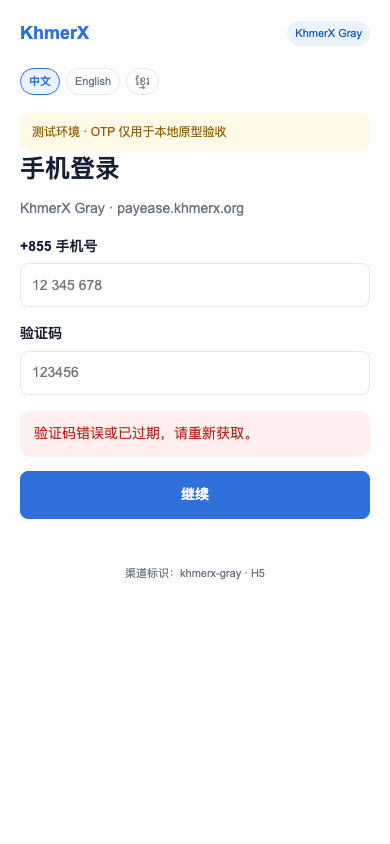
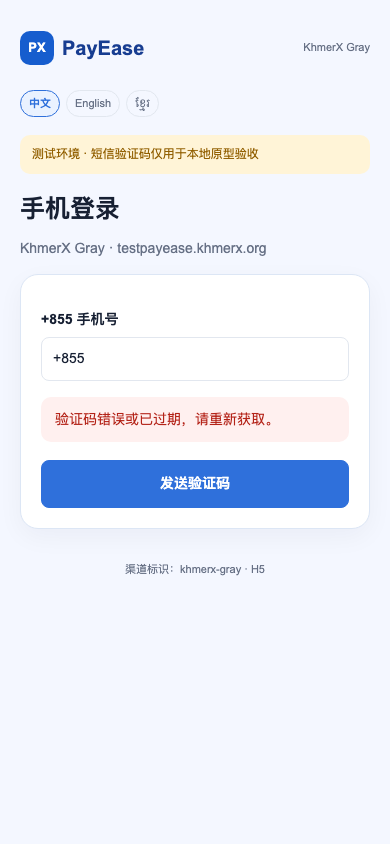
docs: rework channel configuration UI prototype

diff --git a/docs/design/channel-config/app.js b/docs/design/channel-config/app.js
@@ -1,29 +1,66 @@
-const q=new URLSearchParams(location.search),screen=q.get('screen')||'list',locale=q.get('locale')||'zh';
-const lang={zh:{h5:'手机登录',code:'验证码',continue:'继续',company:'KhmerX Gray',test:'测试环境',mismatch:'当前入口暂不可用',disabled:'该渠道已停用',maintenance:'系统维护中，请稍后再试',upgrade:'需要升级',offline:'接口暂不可用',success:'登录成功'},en:{h5:'Phone sign in',code:'Verification code',continue:'Continue',company:'KhmerX Gray',test:'Test environment',mismatch:'This entry is unavailable',disabled:'This channel is disabled',maintenance:'System maintenance. Please try again later.',upgrade:'Update required',offline:'Service unavailable',success:'Signed in'},km:{h5:'ចូលដោយទូរស័ព្ទ',code:'លេខកូដផ្ទៀងផ្ទាត់',continue:'បន្ត',company:'KhmerX Gray',test:'បរិស្ថានសាកល្បង',mismatch:'ច្រកចូលនេះមិនអាចប្រើបាន',disabled:'ឆានែលនេះត្រូវបានបិទ',maintenance:'ប្រព័ន្ធកំពុងថែទាំ សូមព្យាយាមម្ដងទៀត',upgrade:'ត្រូវការធ្វើបច្ចុប្បន្នភាព',offline:'សេវាមិនអាចប្រើបាន',success:'បានចូល'} }[locale]||{};
-const clientText={zh:{otp:'OTP 仅用于本地原型验收',phone:'手机号',wrong:'验证码错误或已过期，请重新获取。',rate:'发送次数过多，请稍后再试。',mismatchHint:'请从所属公司的官方机器人重新打开应用。',back:'返回机器人',loading:'正在自动登录',verify:'正在验证 Telegram 会话与公司渠道…',enter:'进入首页',updateCopy:'请安装最新版本以继续使用',update:'前往更新',later:'稍后提醒',retry:'重试',network:'请检查网络后重试。我们不会丢失你的登录状态。',channel:'渠道标识'},en:{otp:'OTP is for local prototype acceptance only',phone:'Phone number',wrong:'The code is wrong or expired. Request a new code.',rate:'Too many requests. Try again later.',mismatchHint:'Open the app again from the company\'s official bot.',back:'Return to bot',loading:'Signing you in',verify:'Verifying the Telegram session and company channel…',enter:'Open workspace',updateCopy:'Install the latest version to continue with',update:'Update now',later:'Remind me later',retry:'Retry',network:'Check your network and try again. Your sign-in state is safe.',channel:'Channel'},km:{otp:'OTP សម្រាប់ការទទួលយកគំរូក្នុង local ប៉ុណ្ណោះ',phone:'លេខទូរស័ព្ទ',wrong:'លេខកូដខុស ឬផុតកំណត់។ សូមស្នើលេខកូដថ្មី។',rate:'សំណើច្រើនពេក។ សូមព្យាយាមម្ដងទៀតពេលក្រោយ។',mismatchHint:'សូមបើកកម្មវិធីម្ដងទៀតពី bot ផ្លូវការរបស់ក្រុមហ៊ុន។',back:'ត្រឡប់ទៅ bot',loading:'កំពុងចូលប្រើ',verify:'កំពុងផ្ទៀងផ្ទាត់ session Telegram និងឆានែលក្រុមហ៊ុន…',enter:'ចូលទៅកាន់ workspace',updateCopy:'សូមដំឡើងកំណែថ្មីបំផុត ដើម្បីបន្តជាមួយ',update:'ធ្វើបច្ចុប្បន្នភាព',later:'រំលឹកខ្ញុំពេលក្រោយ',retry:'ព្យាយាមម្ដងទៀត',network:'សូមពិនិត្យបណ្តាញ ហើយព្យាយាមម្ដងទៀត។ ស្ថានភាពចូលរបស់អ្នកនៅសុវត្ថិភាព។',channel:'ឆានែល'}}[locale]||{};
-setTimeout(()=>{if(!screen.startsWith('client-'))return;const map={
-  'OTP 仅用于本地原型验收':clientText.otp,'手机号':clientText.phone,'验证码错误或已过期，请重新获取。':clientText.wrong,
-  '发送次数过多，请稍后再试。':clientText.rate,'请从所属公司的官方机器人重新打开应用。':clientText.mismatchHint,'返回机器人':clientText.back,
-  '正在自动登录':clientText.loading,'正在验证 Telegram 会话与公司渠道…':clientText.verify,'进入首页':clientText.enter,
-  '请安装最新版本以继续使用':clientText.updateCopy,'前往更新':clientText.update,'稍后提醒':clientText.later,
-  '请检查网络后重试。我们不会丢失你的登录状态。':clientText.network,'重试':clientText.retry,'渠道标识':clientText.channel
-};document.querySelectorAll('.client *').forEach(el=>{el.childNodes.forEach(n=>{if(n.nodeType!==3)return;for(const [from,to] of Object.entries(map))n.nodeValue=n.nodeValue.replaceAll(from,to)})})},0);
-const esc=s=>String(s).replace(/[&<>"']/g,c=>({'&':'&amp;','<':'&lt;','>':'&gt;','"':'&quot;',"'":'&#39;'}[c]));
-const link=(label,target,active='')=>`<a class="${active===target?'active':''}" href="?screen=${target}">${label}</a>`;
-function top(){return `<header class="top"><div class="brand">KhmerX <small>CHANNEL CONFIGURATION</small></div><div class="top-actions"><span class="env">GRAY · READ-ONLY PREVIEW</span><span class="avatar">AM</span></div></header>`}
-function rail(){return `<aside class="rail"><h2>KhmerX Admin</h2><nav>${link('概览','list',screen)}${link('渠道配置','list',screen)}${link('自检面板','selfcheck',screen)}${link('审计记录','audit',screen)}${link('角色权限','roles',screen)}</nav><span>预览页面</span><nav>${link('新增渠道','add',screen)}${link('双人复核','review',screen)}${link('无权限状态','forbidden',screen)}</nav></aside>`}
-function admin(content){return `<div class="shell">${top()}<div class="layout">${rail()}<main class="main">${content}</main></div></div>`}
-const heading=(title,desc,actions='')=>`<div class="heading"><div><p class="eyebrow">CHANNEL CONFIGURATION</p><h1>${title}</h1><p>${desc}</p></div><div class="button-row">${actions}</div></div>`;
-const badge=(text,type='blue')=>`<span class="pill ${type}">${text}</span>`;
-function list(){return admin(heading('渠道配置','按公司查看 Telegram Mini App、H5 和 App 的绑定与运行状态。','<button class="button primary">+ 新增渠道</button>')+`<div class="notice">运行时只读项：环境、Demo OTP、扫描器地址由部署配置控制；Token 仅显示 configured 与末四位。</div><div class="kpis"><div class="kpi">公司<strong>3</strong></div><div class="kpi">启用渠道<strong>7</strong></div><div class="kpi">待复核<strong>2</strong></div><div class="kpi">自检异常<strong class="red">1</strong></div></div><section class="panel"><div class="panel-title"><h2>公司渠道</h2><span class="muted">最后刷新：2026-11-06 09:12</span></div><div class="table-wrap"><table class="table"><thead><tr><th>公司 / 渠道</th><th>类型</th><th>状态</th><th>认证方式</th><th>主机或机器人</th><th>Token</th><th>最近修改</th><th></th></tr></thead><tbody>${[['KhmerX Gray','Telegram Mini App','@gray_demo_bot','已启用','Telegram initData','已配置 ····7A2F','AM · 11-06 08:42'],['KhmerX Gray','H5','testpayease.khmerx.org','已启用','手机验证码','未配置','AM · 11-05 17:31'],['KhmerX Build','App','api.build.example.test','待自检','手机号 + 密码','已配置 ····31C0','WL · 11-05 15:08'],['KhmerX Demo','H5','demo.example.test','已停用','手机号验证码','已配置 ····91EE','AM · 11-04 19:22']].map((r,i)=>`<tr><td><strong>${r[0]}</strong><span class="muted">${r[1]}</span></td><td>${r[1]}</td><td>${badge(r[3],r[3]==='已启用'?'ok':r[3]==='已停用'?'bad':'warn')}</td><td>${r[4]}</td><td><code>${r[2]}</code></td><td>${r[5]}</td><td>${r[6]}</td><td><button class="button">查看</button></td></tr>`).join('')}</tbody></table></div></section>`)}
-function detail(type='telegram'){const data={telegram:['Telegram Mini App','@gray_demo_bot','bot_telegram_id / bot_username / mini_app_url','checker · finance_checker 可读；admin 可改'],h5:['H5','testpayease.khmerx.org','hosts / allowed_origins / auth_mode / default_language','admin 可读写；环境字段只读'],app:['App','api.build.example.test','api_base_url / cookie_hosts / package_id / min_supported_version','admin 可读写；客户端仅消费']}[type];return admin(heading(`${data[0]} · 详情和编辑`,'虚构数据预览；保存动作需要 MFA，停用和认证方式变更需要双人复核。','<button class="button">返回列表</button><button class="button primary">保存草稿</button>')+`<div class="notice">Token 安全边界：只显示“已配置 ····7A2F”，替换 Token 会进入 MFA 二次验证，原值不会进入页面或日志。</div><section class="panel"><div class="section"><h3>A · 归属与状态</h3><div class="grid"><div class="field"><label>公司</label><input value="KhmerX Gray" disabled></div><div class="field"><label>渠道状态</label><select><option>已启用</option><option>已停用</option></select></div><div class="field"><label>渠道类型</label><input value="${data[0]}" disabled></div><div class="field"><label>source_channel</label><input value="${type==='telegram'?'TG':type.toUpperCase()}" disabled></div></div></div><div class="section"><h3>B · 连接与认证</h3><div class="grid"><div class="field"><label>${type==='telegram'?'bot_username':'api_base_url / hosts'}</label><input value="${data[1]}"></div><div class="field"><label>auth_mode</label><select><option>demo（仅 local/gray）</option><option>telegram</option><option>password</option></select></div><div class="field"><label>Token 状态</label><input value="已配置 ····7A2F" disabled></div><div class="field"><label>安全操作</label><button class="button">替换 Token · 需要 MFA</button></div></div></div><div class="section"><h3>C · 语言与注册</h3><div class="grid"><div class="field"><label>languages</label><input value="zh, en, km"></div><div class="field"><label>default_language</label><select><option>zh</option><option>en</option><option>km</option></select></div><div class="field"><label>phone_verification</label><input value="true · H5/App 强制" disabled></div><div class="field"><label>password_setup</label><input value="false"></div></div></div><div class="section"><h3>D · 运行时边界</h3><div class="grid"><div class="field"><label>PAYEASE_ENV</label><input value="gray" disabled></div><div class="field"><label>Demo OTP</label><input value="仅 local/gray，由部署配置控制" disabled></div><div class="field"><label>notifications_enabled</label><input value="true"></div><div class="field"><label>字段映射</label><input value="${data[2]}" disabled></div></div></div><p class="fine">权限说明：${data[3]}。所有改动写入 team_audit，旧值/新值脱敏对比。</p></section>`)}
-function add(){return admin(heading('新增渠道','逐步校验归属、绑定冲突和运行时边界。','<button class="button">取消</button>')+`<section class="panel"><div class="stepper"><div class="step done">1 · 选择类型</div><div class="step current">2 · 填写参数</div><div class="step">3 · 校验</div><div class="step">4 · 保存</div></div><div class="grid"><div class="field"><label>渠道类型</label><select><option>H5</option><option>Telegram Mini App</option><option>App</option></select></div><div class="field"><label>绑定公司</label><select><option>KhmerX Gray</option><option>KhmerX Build</option></select></div><div class="field"><label>主机 / 机器人标识</label><input value="testpayease.khmerx.org"></div><div class="field"><label>认证方式</label><select><option>phone_otp</option><option>telegram_initdata</option></select></div></div><div class="error" style="margin-top:18px">冲突：该主机或机器人已属于其他公司。请更换绑定，或进入迁移审批流程。</div><div class="button-row" style="margin-top:18px"><button class="button">上一步</button><button class="button primary">重新校验</button></div></section>`)}
-function review(){return admin(heading('双人复核','停用渠道或修改认证方式必须由另一位授权员工复核。','<button class="button">只看待复核</button>')+`<section class="panel"><div class="tabs"><span class="pill warn">待复核 2</span><span class="pill">已通过 8</span><span class="pill">已驳回 1</span></div><div class="section"><div class="stepper"><div class="step done">发起</div><div class="step current">待复核</div><div class="step">通过 / 驳回</div><div class="step">写入审计</div></div><h3>CR-20261106-004 · 停用 KhmerX Demo H5</h3><p class="muted">发起人：AM（admin） · 2026-11-06 08:51 · 原因：迁移到新主机</p><div class="compare"><div><strong>变更前</strong>enabled = true<br>auth_mode = phone_otp<br>host = demo.example.test</div><div><strong>变更后</strong>enabled = false<br>auth_mode = phone_otp<br>host = demo.example.test</div></div><div class="button-row" style="margin-top:18px"><button class="button danger">驳回并填写原因</button><button class="button primary">通过 · 需要 MFA</button></div></div></section>`)}
-function selfcheck(){return admin(heading('配置自检面板','对应 E4 检查项；只读展示，不代替部署启动门禁。','<button class="button">重新运行</button>')+`<section class="panel"><div class="row" style="justify-content:space-between"><h2>E4 · Gray profile</h2>${badge('1 项失败','bad')}</div>${[['公司绑定唯一','公司 slug 与渠道映射一致','ok'],['H5 host allow-list','testpayease.khmerx.org 已登记','ok'],['Telegram bot 唯一','@gray_demo_bot 未与其他公司重复','ok'],['App api host','api.build.example.test 未配置到 Gray','bad'],['Demo OTP 边界','仅 local/gray 生效，production 拒绝','ok'],['Token 脱敏','API 只返回 configured 与末四位','ok'],['语言配置','zh / en / km 有效','ok']].map(x=>`<div class="event"><span class="dot" style="background:${x[2]==='ok'?'var(--status-success)':'var(--status-danger)'}"></span><strong>${x[0]}</strong><span>${x[1]} ${badge(x[2]==='ok'?'通过':'失败',x[2]==='ok'?'ok':'bad')}</span></div>`).join('')}</section>`)}
-function audit(){return admin(heading('审计记录','记录渠道字段变更的前后对比、操作者、复核状态和请求编号。','<button class="button">导出筛选结果</button>')+`<section class="panel"><div class="grid"><div class="field"><label>公司</label><select><option>全部公司</option><option>KhmerX Gray</option></select></div><div class="field"><label>动作</label><select><option>全部动作</option><option>channel_update</option><option>channel_review</option></select></div></div><div class="timeline"><div class="event"><span class="dot"></span><strong>channel_review</strong><span>AM 通过停用复核 · CR-20261106-003<small class="muted">enabled: true → false · 2026-11-06 08:22 · MFA verified</small></span></div><div class="event"><span class="dot"></span><strong>channel_update</strong><span>WL 修改 H5 languages<small class="muted">[zh,en] → [zh,en,km] · 2026-11-05 17:31</small></span></div></div></section>`)}
-function roles(){return admin(heading('角色可见性','以 portalAllows 与公司管理员权限为准；无权限页面不显示敏感字段。','<button class="button">查看无权限状态</button>')+`<section class="panel"><table class="role-table"><thead><tr><th>角色</th><th>能看什么</th><th>能改什么</th><th>敏感字段</th></tr></thead><tbody>${[['admin','全部公司渠道、运行时只读项、审计','发起配置草稿；停用/认证方式变更需双人复核','Token 仅状态/末四位'],['checker / finance_checker','机构渠道及审批相关状态','无配置写权限','不显示 Token 原文'],['finance / lender','当前机构业务摘要（按基线入口矩阵）','不显示渠道配置入口','不显示 Token'],['audit','只读审计和摘要','不可修改','只显示脱敏前后对比']].map(r=>`<tr><td><strong>${r[0]}</strong></td><td>${r[1]}</td><td>${r[2]}</td><td>${r[3]}</td></tr>`).join('')}</tbody></table></section>`)}
-function forbidden(){return admin(heading('无权限状态','当角色不满足 portalAllows 或不在公司范围时，页面保持可解释、无敏感泄漏。','')+`<section class="panel"><div class="error"><strong>无法查看渠道配置</strong><span>当前账号没有该公司的渠道配置权限。请联系公司管理员，不会显示绑定的主机、机器人或 Token 信息。</span></div><div class="button-row" style="margin-top:18px"><button class="button">返回工作区</button><button class="button primary">切换公司</button></div></section>`)}
-function localePicker(){return `<div class="locale"><span class="${locale==='zh'?'selected':''}">中文</span><span class="${locale==='en'?'selected':''}">English</span><span class="${locale==='km'?'selected':''}">ខ្មែរ</span></div>`}
-function client(kind,state){let body='';if(kind==='h5'){body=`<div class="banner">${esc(lang.test)} · OTP 仅用于本地原型验收</div><h1>${esc(lang.h5)}</h1><p>${esc(lang.company)} · ${esc(state==='disabled'?lang.disabled:'payease.khmerx.org')}</p><div class="field"><label>+855 ${locale==='zh'?'手机号':locale==='en'?'Phone number':'លេខទូរស័ព្ទ'}</label><input placeholder="12 345 678"></div><div class="field"><label>${esc(lang.code)}</label><input placeholder="123456"></div>${state==='error'?`<div class="error">验证码错误或已过期，请重新获取。</div>`:state==='rate'?`<div class="error">发送次数过多，请稍后再试。</div>`:state==='disabled'?`<div class="error">${esc(lang.disabled)}。</div>`:''}<button class="button primary">${esc(lang.continue)}</button>`}else if(kind==='mini'){body=state==='mismatch'?`<div class="state-icon">!</div><div class="center"><h1>${esc(lang.mismatch)}</h1><p>请从所属公司的官方机器人重新打开应用。</p><button class="button primary">返回机器人</button></div>`:`<div class="state-icon">${state==='success'?'✓':'…'}</div><div class="center"><h1>${state==='success'?esc(lang.success):'正在自动登录'}</h1><p>${state==='success'?esc(lang.company):'正在验证 Telegram 会话与公司渠道…'}</p>${state!=='success'?'<div class="progress"><i></i></div>':'<button class="button primary">进入首页</button>'}</div>`}else{body=state==='upgrade'?`<div class="state-icon">↑</div><div class="center"><h1>${esc(lang.upgrade)}</h1><p>请安装最新版本以继续使用 ${esc(lang.company)}。</p><button class="button primary">前往更新</button><button class="button">稍后提醒</button></div>`:state==='offline'?`<div class="state-icon">×</div><div class="center"><h1>${esc(lang.offline)}</h1><p>请检查网络后重试。我们不会丢失你的登录状态。</p><button class="button primary">重试</button></div>`:`<div class="banner">${esc(lang.test)}</div><h1>${esc(lang.h5)}</h1><p>${esc(lang.company)}</p><div class="field"><label>${esc(lang.code)}</label><input placeholder="123456"></div><button class="button primary">${esc(lang.continue)}</button>`}return `<div class="client-wrap"><section class="phone client"><div class="client-top"><div class="client-brand">KhmerX</div><span class="client-company">${esc(lang.company)}</span></div>${localePicker()}${body}<div class="client-footer">渠道标识：khmerx-gray · ${kind.toUpperCase()}</div></section></div>`}
-function maintenance(){return `<div class="client-wrap"><section class="phone client"><div class="client-top"><div class="client-brand">KhmerX</div><span class="client-company">${esc(lang.company)}</span></div>${localePicker()}<div class="state-icon">⋯</div><div class="center"><h1>${esc(lang.maintenance)}</h1><p>${locale==='zh'?'我们正在完成例行维护，渠道恢复后会自动通知。':locale==='en'?'Routine maintenance is in progress. We will notify you when this channel returns.':'កំពុងថែទាំជាប្រចាំ។ យើងនឹងជូនដំណឹងនៅពេលឆានែលនេះដំណើរការឡើងវិញ។'}</p><button class="button primary">${locale==='zh'?'重新检查':locale==='en'?'Check again':'ពិនិត្យម្តងទៀត'}</button></div><div class="client-footer">渠道标识：khmerx-gray · MAINTENANCE</div></section></div>`}
-const out=screen==='list'?list():screen==='detail-telegram'?detail('telegram'):screen==='detail-h5'?detail('h5'):screen==='detail-app'?detail('app'):screen==='add'?add():screen==='review'?review():screen==='selfcheck'?selfcheck():screen==='audit'?audit():screen==='roles'?roles():screen==='forbidden'?forbidden():screen==='client-maintenance'?maintenance():screen.startsWith('client-h5')?client('h5',screen.split('-')[2]):screen.startsWith('client-mini')?client('mini',screen.split('-')[2]):screen.startsWith('client-app')?client('app',screen.split('-')[2]):client('h5','default');document.querySelector('#app').innerHTML=out;
+const query = new URLSearchParams(location.search);
+const screen = query.get('screen') || 'list';
+const locale = query.get('locale') || 'zh';
+
+const copy = {
+  zh: { phone: '手机号', code: '验证码', send: '发送验证码', continue: '继续', verify: '完成验证', company: 'KhmerX Gray', test: '测试环境', success: '登录成功', mismatch: '当前入口暂不可用', disabled: '该渠道已停用', maintenance: '系统维护中，请稍后再试', upgrade: '需要升级', offline: '接口暂不可用', prompt: '建议升级', retry: '重试' },
+  en: { phone: 'Phone number', code: 'Verification code', send: 'Send code', continue: 'Continue', verify: 'Verify and continue', company: 'KhmerX Gray', test: 'Test environment', success: 'Signed in', mismatch: 'This entry is unavailable', disabled: 'This channel is disabled', maintenance: 'System maintenance. Please try again later.', upgrade: 'Update required', offline: 'Service unavailable', prompt: 'Update recommended', retry: 'Retry' },
+  km: { phone: 'លេខទូរស័ព្ទ', code: 'លេខកូដផ្ទៀងផ្ទាត់', send: 'ផ្ញើលេខកូដ', continue: 'បន្ត', verify: 'ផ្ទៀងផ្ទាត់ និងបន្ត', company: 'KhmerX Gray', test: 'បរិស្ថានសាកល្បង', success: 'បានចូល', mismatch: 'ច្រកចូលនេះមិនអាចប្រើបាន', disabled: 'ឆានែលនេះត្រូវបានបិទ', maintenance: 'ប្រព័ន្ធកំពុងថែទាំ សូមព្យាយាមម្ដងទៀត', upgrade: 'ត្រូវការធ្វើបច្ចុប្បន្នភាព', offline: 'សេវាមិនអាចប្រើបាន', prompt: 'សូមធ្វើបច្ចុប្បន្នភាព', retry: 'ព្យាយាមម្ដងទៀត' }
+}[locale] || {};
+const esc = (value) => String(value).replace(/[&<>"']/g, (char) => ({ '&': '&amp;', '<': '&lt;', '>': '&gt;', '"': '&quot;', "'": '&#39;' }[char]));
+const pill = (text, tone = '') => `<span class="pill ${tone}">${esc(text)}</span>`;
+const button = (text, primary = false) => `<button class="button${primary ? ' primary' : ''}">${esc(text)}</button>`;
+const field = (label, key, value, disabled = false) => `<div class="field"><label>${esc(label)}<small class="field-note">${esc(key)}</small></label><input value="${esc(value)}"${disabled ? ' disabled' : ''}></div>`;
+const selectField = (label, key, value, options, disabled = false) => `<div class="field"><label>${esc(label)}<small class="field-note">${esc(key)}</small></label><select${disabled ? ' disabled' : ''}>${options.map((item) => `<option${item === value ? ' selected' : ''}>${esc(item)}</option>`).join('')}</select></div>`;
+const link = (label, target) => `<a class="${screen === target ? 'active' : ''}" href="?screen=${target}">${label}</a>`;
+
+function admin(content) {
+  return `<div class="shell"><header class="top"><div class="brand">KhmerX <small>CHANNEL CONFIGURATION</small></div><div class="top-actions"><span class="env">GRAY · READ-ONLY PREVIEW</span><span class="avatar">AM</span></div></header><div class="layout"><aside class="rail"><h2>KhmerX Admin</h2><nav>${link('概览', 'list')}${link('渠道配置', 'list')}${link('自检面板', 'selfcheck')}${link('审计记录', 'audit')}${link('角色权限', 'roles')}</nav><span>预览页面</span><nav>${link('新增渠道', 'add')}${link('双人复核', 'review')}${link('无权限状态', 'forbidden')}</nav></aside><main class="main">${content}</main></div></div>`;
+}
+function heading(title, description, actions = '') { return `<div class="heading"><div><p class="eyebrow">CHANNEL CONFIGURATION</p><h1>${title}</h1><p>${description}</p></div><div class="button-row">${actions}</div></div>`; }
+function panel(title, body) { return `<section class="panel"><h2>${title}</h2>${body}</section>`; }
+
+function list() {
+  const rows = [
+    ['KhmerX Gray', 'Telegram Mini App', 'Telegram 登录', '@gray_demo_bot', '已启用', '已配置 ····7A2F'],
+    ['KhmerX Gray', 'H5', '短信验证码', 'testpayease.khmerx.org', '已启用', '不适用'],
+    ['KhmerX Build', 'App', '短信验证码', 'testapi.khmerx.org', '待自检', '不适用'],
+    ['KhmerX Demo', 'H5', '演示验证码（仅本地和灰度）', 'testadmin.khmerx.org', '已停用', '不适用']
+  ];
+  return admin(heading('渠道配置', '按公司查看 Telegram Mini App、H5 和 App 的绑定与运行状态。', button('＋ 新增渠道', true)) + '<div class="notice">运行时只读项：环境、演示验证码、扫描器地址由部署配置控制；Token 只对 Telegram 显示 configured 与末四位。</div><div class="kpis"><div class="kpi">公司<strong>3</strong></div><div class="kpi">启用渠道<strong>7</strong></div><div class="kpi">待复核<strong>2</strong></div><div class="kpi">自检异常<strong class="red">1</strong></div></div>' + panel('公司渠道', `<div class="table-wrap"><table class="table"><thead><tr><th>公司 / 渠道</th><th>类型</th><th>认证方式</th><th>主机或机器人</th><th>状态</th><th>Token</th><th>最近修改</th><th></th></tr></thead><tbody>${rows.map((row, index) => `<tr><td><strong>${row[0]}</strong><span class="muted">${row[1]}</span></td><td>${row[1]}</td><td>${row[2]}</td><td><code>${row[3]}</code></td><td>${pill(row[4], row[4] === '已启用' ? 'ok' : row[4] === '已停用' ? 'bad' : 'warn')}</td><td>${row[5]}</td><td>AM · 11-06 08:${42 - index * 7}</td><td>${button('查看')}</td></tr>`).join('')}</tbody></table></div>`));
+}
+
+function detailTelegram() {
+  return admin(heading('Telegram Mini App · 详情和编辑', 'Telegram 使用 Telegram 登录，无需手机号验证；第一阶段只读。', button('返回列表') + button('编辑暂未开放')) + panel('Telegram Mini App', `<div class="notice">凭据边界：Token 不显示原值，只显示 configured/末四位；Webhook 密钥只显示“已配置”，替换由后续受控流程完成。</div><div class="section"><h3>A · 归属与状态</h3><div class="grid">${field('公司', 'tenant_id', 'KhmerX Gray', true)}${field('渠道类型', 'type', 'telegram_mini_app', true)}${field('渠道名称', 'label', 'Gray Mini App', true)}${field('渠道状态', 'enabled', '已启用', true)}</div></div><div class="section"><h3>B · Telegram 绑定</h3><div class="grid">${field('Telegram Bot ID', 'bot_telegram_id', '8123456789', true)}${field('Bot 用户名', 'bot_username', '@gray_demo_bot', true)}${field('Mini App 地址', 'mini_app_url', 'https://testpayease.khmerx.org/mini', true)}${field('Mini App 短名称', 'mini_app_short_name', 'gray', true)}${field('Webhook 地址', 'webhook_url', 'https://testapi.khmerx.org/tg/webhook', true)}${field('Webhook 密钥状态', 'webhook_secret_configured', '已配置（不显示密钥）', true)}</div></div><div class="section"><h3>C · 登录与语言</h3><div class="grid">${field('认证方式', 'auth_mode', 'telegram', true)}${field('手机号验证', 'phone_verification', '不需要', true)}${field('Init Data 最大年龄（秒）', 'init_data_max_age_seconds', '86400', true)}${field('默认语言', 'default_language', 'zh', true)}${field('支持语言', 'languages_json', 'zh, en, km', true)}${field('来源渠道', 'source_channel', 'TG', true)}</div></div><div class="section"><h3>D · Token 与通知</h3><div class="grid">${field('Token 状态', 'token_configured / token_last4', '已配置 ····7A2F', true)}${field('通知开关', 'notifications_enabled', '已启用', true)}${field('最近修改人', 'updated_by', 'AM', true)}${field('最近修改时间', 'updated_at', '2026-11-06 08:42', true)}</div></div>`));
+}
+
+function detailH5() {
+  return admin(heading('H5 · 详情和编辑', 'H5 使用短信验证码；字段按 host、OTP 和语言分组，第一阶段只读。', button('返回列表') + button('编辑暂未开放')) + panel('H5 渠道', '<div class="notice">环境与演示验证码由 local/gray 部署配置控制；正式环境不会接受演示验证码。</div><div class="section"><h3>A · 归属与状态</h3><div class="grid">' + field('公司', 'tenant_id', 'KhmerX Gray', true) + field('渠道类型', 'type', 'h5', true) + field('渠道名称', 'label', 'Gray H5', true) + field('渠道状态', 'enabled', '已启用', true) + '</div></div><div class="section"><h3>B · Host 与来源</h3><div class="grid">' + field('访问主机', 'hosts_json', 'testpayease.khmerx.org', true) + field('允许来源', 'allowed_origins_json', 'https://testpayease.khmerx.org', true) + field('入口标识', 'entry_slug', 'gray', true) + field('来源渠道', 'source_channel', 'H5', true) + '</div></div><div class="section"><h3>C · 短信认证参数</h3><div class="grid">' + field('认证方式', 'auth_mode', '短信验证码', true) + field('短信服务商', 'sms_provider', 'Verification Codes', true) + field('验证码有效期（秒）', 'otp_ttl_seconds', '300', true) + field('最多尝试次数', 'otp_max_attempts', '5', true) + field('重发冷却时间（秒）', 'otp_resend_cooldown_seconds', '60', true) + field('频率限制', 'otp_rate_limit', '5 次 / 10 分钟', true) + '</div></div><div class="section"><h3>D · 语言与注册</h3><div class="grid">' + field('支持语言', 'languages_json', 'zh, en, km', true) + field('默认语言', 'default_language', 'zh', true) + field('手机号验证', 'phone_verification', '已启用', true) + field('设置密码', 'password_setup', '可选', true) + '</div></div>'));
+}
+
+function detailApp() {
+  return admin(heading('App · 详情和编辑', 'App 使用短信验证码；密码是注册步骤，不是认证方式。第一阶段只读。', button('返回列表') + button('编辑暂未开放')) + panel('App 渠道', '<div class="notice">最低版本和下载地址是可配置占位字段，具体值由负责人后续确定；客户端只消费已发布配置。</div><div class="section"><h3>A · 归属与平台</h3><div class="grid">' + field('公司', 'tenant_id', 'KhmerX Build', true) + field('渠道类型', 'type', 'app', true) + field('渠道名称', 'label', 'Build App', true) + field('平台', 'platform', 'Android', true) + field('包名 / Bundle ID', 'package_id / bundle_id', 'org.khmerx.build', true) + field('渠道状态', 'enabled', '待自检', true) + '</div></div><div class="section"><h3>B · API 与 Cookie</h3><div class="grid">' + field('API 基址', 'api_base_url', 'https://testapi.khmerx.org', true) + field('Cookie 主机白名单', 'cookie_hosts', 'testapi.khmerx.org, testpayease.khmerx.org', true) + field('允许来源', 'allowed_origins_json', 'https://testpayease.khmerx.org', true) + field('入口标识', 'entry_slug', 'build', true) + '</div></div><div class="section"><h3>C · 版本与下载</h3><div class="grid">' + field('最低支持版本', 'min_supported_version', '1.0.0（占位）', true) + field('最新版本', 'latest_version', '1.1.0（占位）', true) + field('下载地址', 'download_url', 'https://testadmin.khmerx.org/app/latest', true) + field('强制升级', 'force_upgrade', 'false（占位）', true) + '</div></div><div class="section"><h3>D · 登录与语言</h3><div class="grid">' + field('认证方式', 'auth_mode', '短信验证码', true) + field('手机号验证', 'phone_verification', '已启用', true) + field('设置密码', 'password_setup', '可选注册步骤', true) + field('支持语言 / 默认语言', 'languages_json / default_language', 'zh, en, km / zh', true) + '</div></div>'));
+}
+
+function add() { return admin(heading('新增渠道', '选择类型、填写参数、校验后保存；冲突直接阻止保存。', button('取消')) + panel('新增流程', '<div class="stepper"><div class="step done">1 · 选择类型</div><div class="step current">2 · 填写参数</div><div class="step">3 · 校验</div><div class="step">4 · 保存</div></div><div class="grid">' + selectField('渠道类型', 'type', 'H5', ['H5', 'Telegram Mini App', 'App']) + selectField('绑定公司', 'tenant_id', 'KhmerX Gray', ['KhmerX Gray', 'KhmerX Build']) + field('主机 / 机器人标识', 'hosts_json / bot_username', 'testpayease.khmerx.org') + selectField('认证方式', 'auth_mode', '短信验证码', ['Telegram 登录', '短信验证码', '演示验证码（仅本地和灰度）']) + '</div><div class="error" style="margin-top:18px"><strong>阻止保存：已属于其他公司</strong><br>该主机或机器人已属于其他公司；当前只有一家公司，不提供归属转移流程。</div><div class="button-row" style="margin-top:18px">' + button('上一步') + button('重新校验', true) + '</div>')) }
+function review() { return admin(heading('双人复核', '停用渠道或修改认证方式必须由同一家公司的另一位 admin 复核，并完成 MFA。', button('按时间排序')) + panel('待复核 · 2', '<div class="stepper"><div class="step done">发起</div><div class="step current">待复核</div><div class="step">通过 / 驳回</div><div class="step">写入审计</div></div><h3>CR-20261106-004 · 停用 KhmerX Demo H5</h3><p class="muted">发起人：AM（admin） · 2026-11-06 08:51 · 当前无 SLA</p><div class="compare"><div><strong>变更前</strong>enabled = true<br>auth_mode = sms_otp<br>host = testadmin.khmerx.org</div><div><strong>变更后</strong>enabled = false<br>auth_mode = sms_otp<br>host = testadmin.khmerx.org</div></div><div class="notice" style="margin-top:16px">复核人必须是同一家公司的另一位 admin；批准时需要 MFA，发起人不可自审。</div><div class="button-row" style="margin-top:18px">' + button('驳回并填写原因') + button('通过 · 需要 MFA', true) + '</div>')) }
+function selfcheck() { const checks = [['公司绑定唯一', 'company channel 与 tenant 一致', 'ok'], ['H5 host allow-list', 'testpayease.khmerx.org 已登记', 'ok'], ['Telegram Bot 唯一', '@gray_demo_bot 未重复', 'ok'], ['App API 基址', 'testapi.khmerx.org 已登记', 'ok'], ['启用渠道阻断规则', '失败时阻止本地和灰度启动', 'ok'], ['停用渠道失败', '仅显示警告，不阻止启动', 'warn'], ['Token 脱敏', 'API 只返回 configured 与末四位', 'ok'], ['语言回退', 'default → 公司默认 → en', 'ok']]; return admin(heading('配置自检面板', 'E4 只读展示：启用渠道检查失败会阻止启动，停用渠道失败只显示警告。', button('重新运行')) + panel('E4 · Gray profile', `<div class="row" style="justify-content:space-between"><h2>结果</h2>${pill('0 项阻断', 'ok')}</div>${checks.map((check) => `<div class="event"><span class="dot" style="background:${check[2] === 'ok' ? 'var(--status-success)' : 'var(--status-warning)'}"></span><strong>${check[0]}</strong><span>${check[1]} ${pill(check[2] === 'ok' ? '通过' : '警告', check[2] === 'ok' ? 'ok' : 'warn')}</span></div>`).join('')}`)) }
+function audit() { return admin(heading('审计记录', '记录渠道字段变更的前后对比、操作者、复核状态和请求编号。', button('导出筛选结果')) + panel('筛选与记录', '<div class="grid">' + selectField('公司', 'tenant_id', '全部公司', ['全部公司', 'KhmerX Gray']) + selectField('动作', 'audit_action', '全部动作', ['全部动作', 'channel_update', 'channel_review']) + '</div><div class="timeline"><div class="event"><span class="dot"></span><strong>channel_review</strong><span>AM 通过停用复核 · CR-20261106-003<small class="muted">enabled: true → false · MFA verified · 2026-11-06 08:22</small></span></div><div class="event"><span class="dot"></span><strong>channel_update</strong><span>WL 修改 H5 languages<small class="muted">[zh,en] → [zh,en,km] · 2026-11-05 17:31</small></span></div></div>')) }
+function roles() { const rows = [['admin', '全部渠道、运行时只读项、审计', '第一阶段只读；后续仅可发起草稿', 'Token 仅 configured/末四位'], ['checker / finance_checker', '机构摘要、审批状态', '无渠道配置写权限', '不显示 Token 或末四位'], ['finance / lender', '不登录后台、无入口', '不适用', '不显示任何渠道字段'], ['audit', '审计摘要和脱敏 diff', '不可修改', '不显示 secret']]; return admin(heading('角色可见性', '遵循 portalAllows 与公司范围；finance/lender 按方案 A 不登录后台。', button('查看无权限状态')) + panel('角色矩阵', `<div class="role-cards">${rows.map((row) => `<article class="role-card"><h3>${row[0]}</h3><p><strong>可见：</strong>${row[1]}</p><p><strong>可改：</strong>${row[2]}</p><p><strong>敏感字段：</strong>${row[3]}</p></article>`).join('')}</div><table class="role-table"><thead><tr><th>角色</th><th>能看什么</th><th>能改什么</th><th>敏感字段</th></tr></thead><tbody>${rows.map((row) => `<tr><td><strong>${row[0]}</strong></td><td>${row[1]}</td><td>${row[2]}</td><td>${row[3]}</td></tr>`).join('')}</tbody></table>`)) }
+function forbidden() { return admin(heading('无权限状态', '无权限页面保持可解释且不泄漏敏感字段。') + panel('无法查看渠道配置', '<div class="error"><strong>当前账号没有渠道配置权限</strong><span>请联系同一家公司的 admin。不会显示主机、机器人或 Token 信息。</span></div>')) }
+
+function localePicker() { return `<div class="locale"><span class="${locale === 'zh' ? 'selected' : ''}">中文</span><span class="${locale === 'en' ? 'selected' : ''}">English</span><span class="${locale === 'km' ? 'selected' : ''}">ខ្មែរ</span></div>`; }
+function clientShell(content) { return `<div class="client-wrap"><section class="phone client legacy-h5">${content}</section></div>`; }
+function h5Client(state = 'default') {
+  const headingText = locale === 'zh' ? '手机登录' : locale === 'en' ? 'Phone sign in' : 'ចូលដោយទូរស័ព្ទ';
+  const banner = `${copy.test} · ${locale === 'zh' ? '短信验证码仅用于本地原型验收' : locale === 'en' ? 'SMS code for local prototype acceptance only' : 'លេខកូដ SMS សម្រាប់គំរូ local ប៉ុណ្ណោះ'}`;
+  const error = state === 'error' ? (locale === 'zh' ? '验证码错误或已过期，请重新获取。' : locale === 'en' ? 'The code is wrong or expired. Request a new code.' : 'លេខកូដខុស ឬផុតកំណត់។ សូមស្នើលេខកូដថ្មី។') : state === 'rate' ? (locale === 'zh' ? '发送次数过多，请稍后再试。' : locale === 'en' ? 'Too many requests. Try again later.' : 'សំណើច្រើនពេក។ សូមព្យាយាមម្ដងទៀតពេលក្រោយ។') : state === 'disabled' ? copy.disabled : '';
+  const codeStep = state === 'code';
+  return clientShell(`<header class="legacy-h5-header"><div class="legacy-brand"><span class="legacy-mark">PX</span><strong>PayEase</strong></div><span>${copy.company}</span></header>${localePicker()}<div class="legacy-test-banner">${banner}</div><h1>${headingText}</h1><p>${copy.company} · testpayease.khmerx.org</p><div class="legacy-h5-card"><div class="field"><label>+855 ${copy.phone}</label><input placeholder="12 345 678" value="+855 "></div>${codeStep ? `<div class="success">${locale === 'zh' ? '验证码已发送至 +855 12 345 678' : locale === 'en' ? 'Code sent to +855 12 345 678' : 'បានផ្ញើលេខកូដទៅ +855 12 345 678'}</div><div class="field"><label>${copy.code}</label><input placeholder="123456"></div>${error ? `<div class="error">${error}</div>` : ''}${button(copy.verify, true)}` : `${error ? `<div class="error">${error}</div>` : ''}${button(copy.send, true)}`}</div><p class="legacy-h5-foot">${locale === 'zh' ? '渠道标识：khmerx-gray · H5' : locale === 'en' ? 'Channel: khmerx-gray · H5' : 'ឆានែល៖ khmerx-gray · H5'}</p>`);
+}
+function miniClient(state) { const body = state === 'mismatch' ? `<div class="state-icon">!</div><div class="center"><h1>${copy.mismatch}</h1><p>${locale === 'zh' ? '请从所属公司的官方机器人重新打开应用。' : locale === 'en' ? "Open the app again from the company's official bot." : 'សូមបើកកម្មវិធីម្ដងទៀតពី bot ផ្លូវការរបស់ក្រុមហ៊ុន។'}</p>${button(locale === 'zh' ? '返回机器人' : locale === 'en' ? 'Return to bot' : 'ត្រឡប់ទៅ bot', true)}</div>` : `<div class="state-icon">${state === 'success' ? '✓' : '…'}</div><div class="center"><h1>${state === 'success' ? copy.success : locale === 'zh' ? '正在自动登录' : locale === 'en' ? 'Signing you in' : 'កំពុងចូលប្រើ'}</h1><p>${state === 'success' ? copy.company : locale === 'zh' ? '正在验证 Telegram 会话与公司渠道…' : locale === 'en' ? 'Verifying the Telegram session and company channel…' : 'កំពុងផ្ទៀងផ្ទាត់ session Telegram និងឆានែលក្រុមហ៊ុន…'}</p>${state === 'success' ? button(locale === 'zh' ? '进入首页' : locale === 'en' ? 'Open workspace' : 'ចូលទៅកាន់ workspace', true) : '<div class="progress"><i></i></div>'}</div>`; return clientShell(`<header class="legacy-h5-header"><div class="legacy-brand"><span class="legacy-mark">PX</span><strong>PayEase</strong></div><span>${copy.company}</span></header>${localePicker()}${body}<p class="legacy-h5-foot">${locale === 'zh' ? '渠道标识：khmerx-gray · Mini App' : locale === 'en' ? 'Channel: khmerx-gray · Mini App' : 'ឆានែល៖ khmerx-gray · Mini App'}</p>`); }
+function appClient(state) { const body = state === 'upgrade' || state === 'prompt' ? `<div class="state-icon">↑</div><div class="center"><h1>${state === 'upgrade' ? copy.upgrade : copy.prompt}</h1><p>${locale === 'zh' ? '请安装最新版本以继续使用 KhmerX Gray。' : locale === 'en' ? 'Install the latest version to continue with KhmerX Gray.' : 'សូមដំឡើងកំណែថ្មីបំផុត ដើម្បីបន្តជាមួយ KhmerX Gray។'}</p>${button(locale === 'zh' ? '前往更新' : locale === 'en' ? 'Update now' : 'ធ្វើបច្ចុប្បន្នភាព', true)}${state === 'prompt' ? button(locale === 'zh' ? '稍后提醒' : locale === 'en' ? 'Remind me later' : 'រំលឹកខ្ញុំពេលក្រោយ') : ''}</div>` : state === 'offline' ? `<div class="state-icon">×</div><div class="center"><h1>${copy.offline}</h1><p>${locale === 'zh' ? '请检查网络后重试。我们不会丢失你的登录状态。' : locale === 'en' ? 'Check your network and try again. Your sign-in state is safe.' : 'សូមពិនិត្យបណ្តាញ ហើយព្យាយាមម្ដងទៀត។ ស្ថានភាពចូលនៅសុវត្ថិភាព។'}</p>${button(copy.retry, true)}</div>` : `<div class="legacy-test-banner">${copy.test}</div><h1>${locale === 'zh' ? 'App 登录' : locale === 'en' ? 'App sign in' : 'ចូលតាម App'}</h1><p>${copy.company}</p><div class="field"><label>${copy.phone}</label><input placeholder="12 345 678"></div><div class="field"><label>${copy.code}</label><input placeholder="123456"></div>${button(copy.continue, true)}`; return clientShell(`<header class="legacy-h5-header"><div class="legacy-brand"><span class="legacy-mark">PX</span><strong>PayEase</strong></div><span>${copy.company}</span></header>${localePicker()}${body}<p class="legacy-h5-foot">${locale === 'zh' ? '渠道标识：khmerx-gray · App' : locale === 'en' ? 'Channel: khmerx-gray · App' : 'ឆានែល៖ khmerx-gray · App'}</p>`); }
+function maintenance() { return clientShell(`<header class="legacy-h5-header"><div class="legacy-brand"><span class="legacy-mark">PX</span><strong>PayEase</strong></div><span>${copy.company}</span></header>${localePicker()}<div class="state-icon">⋯</div><div class="center"><h1>${copy.maintenance}</h1><p>${locale === 'zh' ? '我们正在完成例行维护，渠道恢复后会自动通知。' : locale === 'en' ? 'Routine maintenance is in progress. We will notify you when this channel returns.' : 'កំពុងថែទាំជាប្រចាំ។ យើងនឹងជូនដំណឹងនៅពេលឆានែលនេះដំណើរការឡើងវិញ។'}</p>${button(locale === 'zh' ? '重新检查' : locale === 'en' ? 'Check again' : 'ពិនិត្យម្តងទៀត', true)}</div><p class="legacy-h5-foot">${locale === 'zh' ? '渠道标识：khmerx-gray · Maintenance' : locale === 'en' ? 'Channel: khmerx-gray · Maintenance' : 'ឆានែល៖ khmerx-gray · Maintenance'}</p>`); }
+
+const rendered = screen === 'list' ? list() : screen === 'detail-telegram' ? detailTelegram() : screen === 'detail-h5' ? detailH5() : screen === 'detail-app' ? detailApp() : screen === 'add' ? add() : screen === 'review' ? review() : screen === 'selfcheck' ? selfcheck() : screen === 'audit' ? audit() : screen === 'roles' ? roles() : screen === 'forbidden' ? forbidden() : screen === 'client-maintenance' ? maintenance() : screen.startsWith('client-h5') ? h5Client(screen.split('-')[2] || 'default') : screen.startsWith('client-mini') ? miniClient(screen.split('-')[2]) : screen.startsWith('client-app') ? appClient(screen.split('-')[2]) : h5Client();
+document.querySelector('#app').innerHTML = rendered;

diff --git a/docs/design/channel-config/index.html b/docs/design/channel-config/index.html
@@ -4,6 +4,10 @@
   <meta charset="utf-8"><meta name="viewport" content="width=device-width,initial-scale=1">
   <title>KhmerX 渠道配置 UI 原型</title>
   <link rel="stylesheet" href="./styles.css">
+  <style>
+    .field label{display:flex;flex-direction:column;gap:2px}.field-note{font-size:11px;font-weight:400;color:var(--muted-foreground);font-family:ui-monospace,SFMono-Regular,Menlo,monospace}.table td:last-child .button{white-space:nowrap;min-width:74px}.role-cards{display:none}.legacy-h5{background:#f4f7ff;border:0;border-radius:0;box-shadow:none;padding:24px 20px}.legacy-h5-header{display:flex;align-items:center;justify-content:space-between;min-height:48px;margin-bottom:18px;color:var(--muted-foreground);font-size:11px}.legacy-brand{display:flex;align-items:center;gap:8px;color:#173d91;font-size:20px}.legacy-mark{display:grid;place-items:center;width:34px;height:34px;border-radius:10px;background:#165dce;color:#fff;font-size:13px;font-weight:800}.legacy-test-banner{padding:10px 12px;border-radius:10px;background:#fff4d7;color:#925f00;font-size:12px;margin:12px 0 18px}.legacy-h5-card{padding:20px;background:#fff;border:1px solid #dce6f5;border-radius:18px;box-shadow:0 8px 26px #1720330b}.legacy-h5-card .field{margin-top:14px}.legacy-h5-card .button{margin-top:18px}.legacy-h5-foot{margin-top:32px;text-align:center;font-size:11px;color:var(--muted-foreground)}
+    @media(max-width:760px){.role-table{display:none}.role-cards{display:grid;gap:10px}.role-card{padding:14px;border:1px solid var(--border);border-radius:12px;background:var(--card)}.role-card h3{margin:0 0 8px}.role-card p{margin:4px 0;color:var(--muted-foreground)}.role-card strong{color:var(--foreground)}.table{min-width:0;table-layout:fixed}.table th:nth-child(n+4),.table td:nth-child(n+4){display:none}.table th:last-child,.table td:last-child{display:table-cell}.table th,.table td{padding:12px 8px}.table th:nth-child(1){width:36%}.table th:nth-child(2){width:22%}.table th:nth-child(3){width:26%}.table th:last-child{width:16%}.table td:last-child .button{min-width:0;width:auto;padding:7px 8px;font-size:12px}}
+  </style>
 </head>
 <body>
   <div id="app"></div>

diff --git a/docs/plans/2026-11-05-company-channel-config.md b/docs/plans/2026-11-05-company-channel-config.md
@@ -44,7 +44,7 @@
 
 | 原型 screen | 用途 | 关键字段（对应数据字段） | 权限与安全边界 |
 | --- | --- | --- | --- |
-| `list` 渠道列表 | 按公司分组查看 Telegram Mini App、H5、App 的绑定状态 | `tenant_id`、`type`、`label`、`enabled`、`auth_mode`、`source_channel`、`hosts_json`/bot 标识、`languages_json`、`default_language`、Token `configured/last4`、`updated_by/updated_at` | `admin` 查看全部；`checker`/`finance_checker` 只读机构摘要和审批状态；`finance`/`lender` 按既有入口矩阵只看业务摘要；`audit` 只读审计摘要；不显示 token 原文 |
+| `list` 渠道列表 | 按公司分组查看 Telegram Mini App、H5、App 的绑定状态 | `tenant_id`、`type`、`label`、`enabled`、`auth_mode`、`source_channel`、`hosts_json`/bot 标识、`languages_json`、`default_language`、Token `configured/last4`、`updated_by/updated_at` | `admin` 查看全部；`checker`/`finance_checker` 只读机构摘要和审批状态且不显示任何 Token；`finance`/`lender` 不登录后台、无入口；`audit` 只读审计摘要；不显示 token 原文 |
 | `detail-telegram` Telegram 详情/编辑 | 展示 Bot、Mini App 和 webhook 元数据，预览可编辑草稿 | `tenant_id`、`type=telegram`、`bot_telegram_id`、`bot_username`、`mini_app_url`、`webhook` 非密文元数据、`auth_mode`、`languages_json`、`default_language`、`notifications_enabled`、Token 状态 | `admin` 可看并提交草稿；`checker`/`finance_checker` 可读；Token 仅 configured/末四位；替换 Token 要 MFA；停用或 auth mode 变化要二人复核 |
 | `detail-h5` H5 详情/编辑 | 检查 host/origin、手机号认证和语言 | `hosts_json`、`allowed_origins_json`、`entry_slug`、`auth_mode`、`phone_verification`、`password_setup`、`languages_json`、`default_language`、`enabled`、`notifications_enabled` | `admin` 可读写草稿；`phone_verification`、`PAYEASE_ENV`、Demo OTP 为环境/策略只读；`checker`/`finance_checker` 只读；host 冲突 fail-closed |
 | `detail-app` App 详情/编辑 | 检查 API、Cookie allow-list 和版本升级策略 | `api_base_url`、`cookie_hosts`、平台/包标识、`min_supported_version`、下载 URL、`hosts_json`、`auth_mode`、`phone_verification`、`password_setup`、`enabled` | `admin` 可读写草稿；客户端仅消费已发布配置；环境字段只读；`finance`/`lender` 不见配置入口 |
@@ -63,7 +63,7 @@
 | `client-app-default` / `upgrade` / `offline` | App 登录、最低版本升级提示、API 不可用重试 | 由 `api_base_url`、`cookie_hosts`、版本/下载字段构造请求；沿用 `CompanyCookieStore` 隔离，跨公司 Cookie 不复用；升级/接口不可用不改变资金状态 |
 | `client-h5-disabled` / `client-maintenance` | 渠道停用和维护页 | `enabled=false` 或运行时维护状态只显示统一停用/维护文案；不渲染 host、Bot、Token；登录态和公司身份不跨租户迁移 |
 
-客户端三种语言（中文/English/ខ្មែរ）均使用渠道的 `languages_json`/`default_language`，缺失语言按既定 fallback；原型的所有显示值为虚构值。
+客户端三种语言（中文/English/ខ្មែរ）均使用渠道的 `languages_json`/`default_language`，缺失语言按 `default_language → 公司默认语言 → en` 回退；原型的所有显示值为虚构值。H5 复用 PayEase 标识、圆角卡片、顶部语言切换和测试环境横幅；测试主机只使用 `testpayease.khmerx.org`、`testapi.khmerx.org`、`testadmin.khmerx.org`。
 
 ### 待 Claude/负责人决定的问题
 
@@ -74,6 +74,15 @@
 5. App 各平台的最低版本、下载 URL、强制升级时间窗是否已有 owner 和正式清单？
 6. 客户端语言缺失时的 fallback 顺序，以及 Telegram/H5/App 的维护文案是否统一？
 7. UI 评审通过后，PR-c 是否只做只读页，还是同时开放已具备 MFA/二人复核门禁的草稿写入？
+
+### 返工评审决定（2026-11-06）
+
+- `finance`/`lender` 不登录后台、无配置入口；`checker`/`finance_checker` 只读且看不到任何 Token 信息（含末四位）；只有 `admin` 可发起修改。
+- 三类详情页拆成独立字段组：Telegram 固定 `auth_mode=telegram`、不需要手机号验证，并展示 Bot ID、Bot 用户名、Mini App URL/短名称、Webhook URL/密钥状态、Init Data 最大年龄；H5 展示 host/origin/entry、OTP TTL/尝试次数/重发冷却/频率限制、短信服务商；App 展示 platform、package/bundle、API 基址、cookie hosts、最低/最新版本和下载地址，不出现机器人 Token。
+- host/bot 冲突直接阻止保存并提示“已属于其他公司”；当前只有一家公司，不设计归属转移流程。
+- 停用或认证方式变更必须由同一家公司的另一位 `admin` 复核并 MFA；暂不设 SLA，列表按时间排序。
+- E4 启用渠道失败阻止本地和灰度启动，停用渠道失败只显示警告；面板只读。
+- App 最低版本和下载地址为可配置占位字段；维护文案三语可由渠道覆盖；第一阶段 PR-c 只做只读页。
 
 ## 测试与门禁
 
